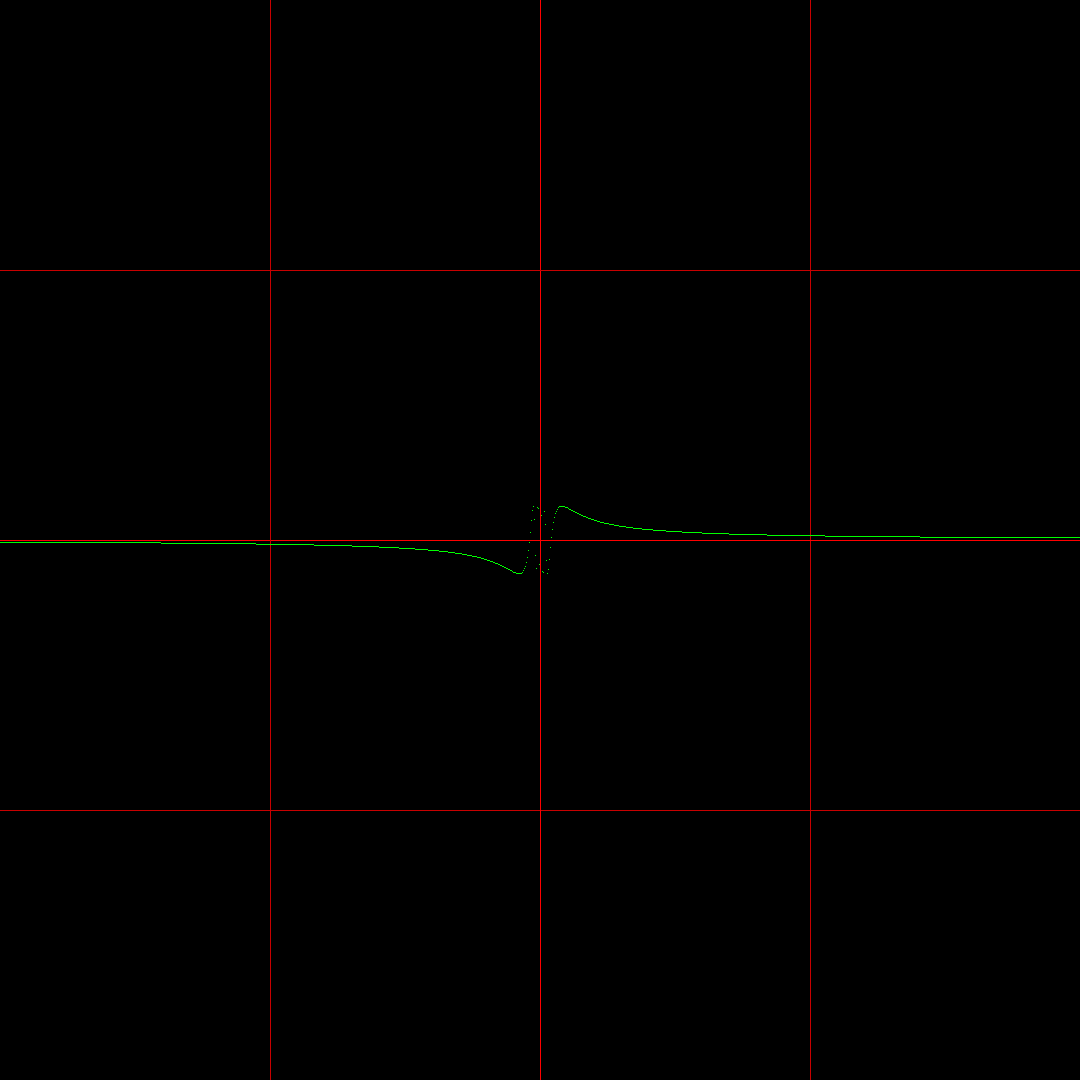
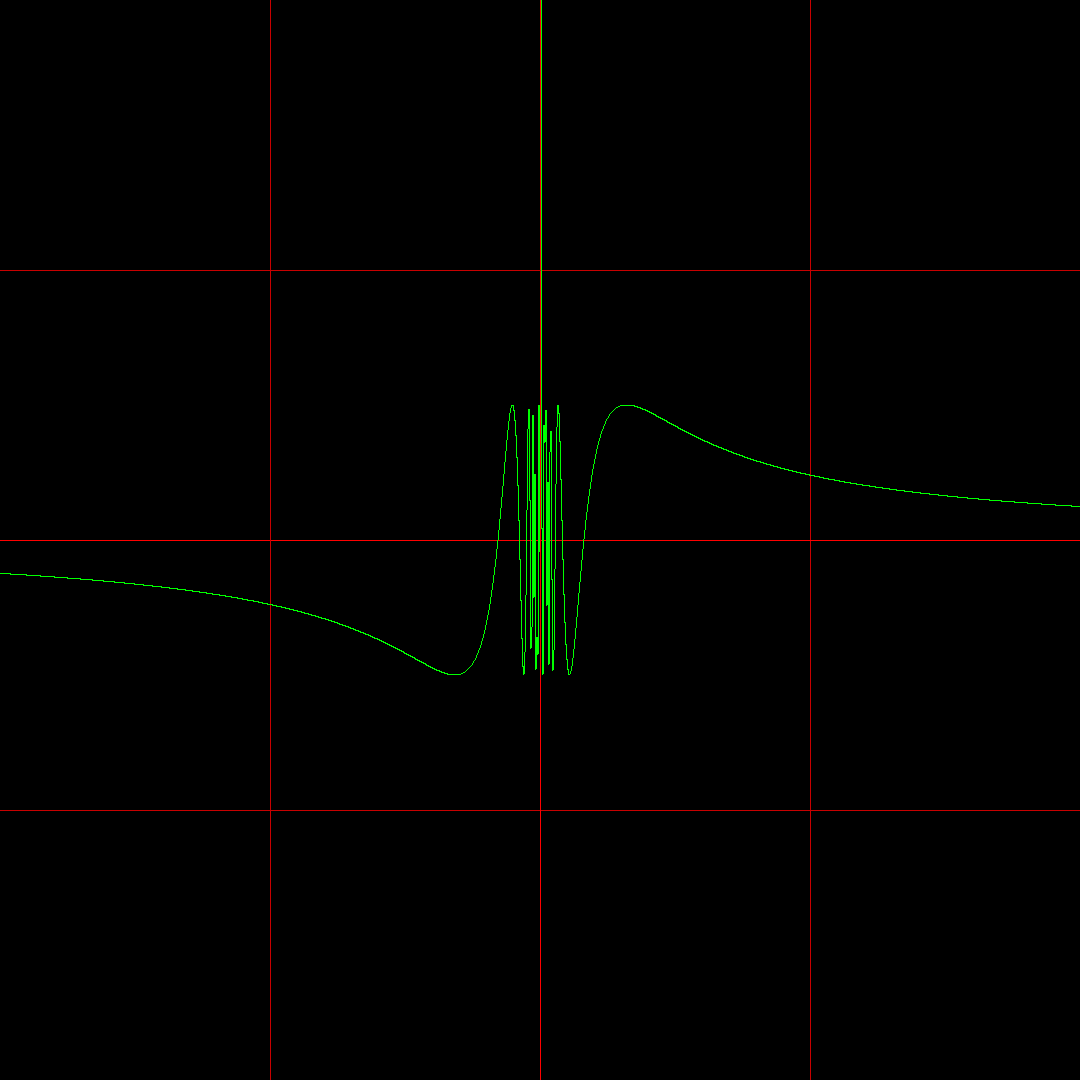
point connectors fixed

Changed region(s): [[0.4889, 0.3667, 0.5194, 0.6111]]

diff --git a/src/image_generator.rs b/src/image_generator.rs
@@ -20,16 +20,31 @@ pub mod image_generator {
                 img.put_pixel(x as u32, y as u32, Rgb([0, 255, 0]));
             }
             if prev != (WIDTH, HEIGHT) {
-                let mut inter_x: f32 = prev.0 as f32;
-                while inter_x < x {
-                    let prev1 = prev.1 as f32;
-                    let prev0 = prev.0 as f32;
-                    let inter_y: f32 = prev1 - (prev1 - y) * (inter_x - prev0) / (x - prev0);
-                    if inter_y > 0.0 && inter_y < HEIGHT as f32 { 
-                        img.put_pixel(inter_x as u32, inter_y as u32, Rgb([0, 255, 0]));
+                let prev_y = prev.1 as f32;
+                let prev_x = prev.0 as f32;
+                if prev_x < x - 1.0 {
+                    let mut inter_x: f32 = prev.0 as f32;
+                    while inter_x < x {
+                        let inter_y: f32 = prev_y - (prev_y - y) * (inter_x - prev_x) / (x - prev_x);
+                        if inter_y > 0.0 && inter_y < HEIGHT as f32 { 
+                            img.put_pixel(inter_x as u32, inter_y as u32, Rgb([0, 255, 0]));
+                        }
+                        inter_x += 1.0;
                     }
-                    inter_x += 1.0;
+                } else if prev_y < y {
+                    for inter_y in prev_y as u32..y as u32 {
+                        img.put_pixel(x as u32, inter_y, Rgb([0, 255, 0]));
+                    }
+                } else if prev_y > y {
+                    for inter_y in y as u32..prev_y as u32 {
+                        img.put_pixel(x as u32, inter_y, Rgb([0, 255, 0]));
+                    }
                 }
+            }
+
+            // used for drawing linear connectors between points if separated by more than 1 width unit
+            else if prev != (WIDTH, HEIGHT) {
+                
             }
             prev = (x as u32, y as u32);
         }
